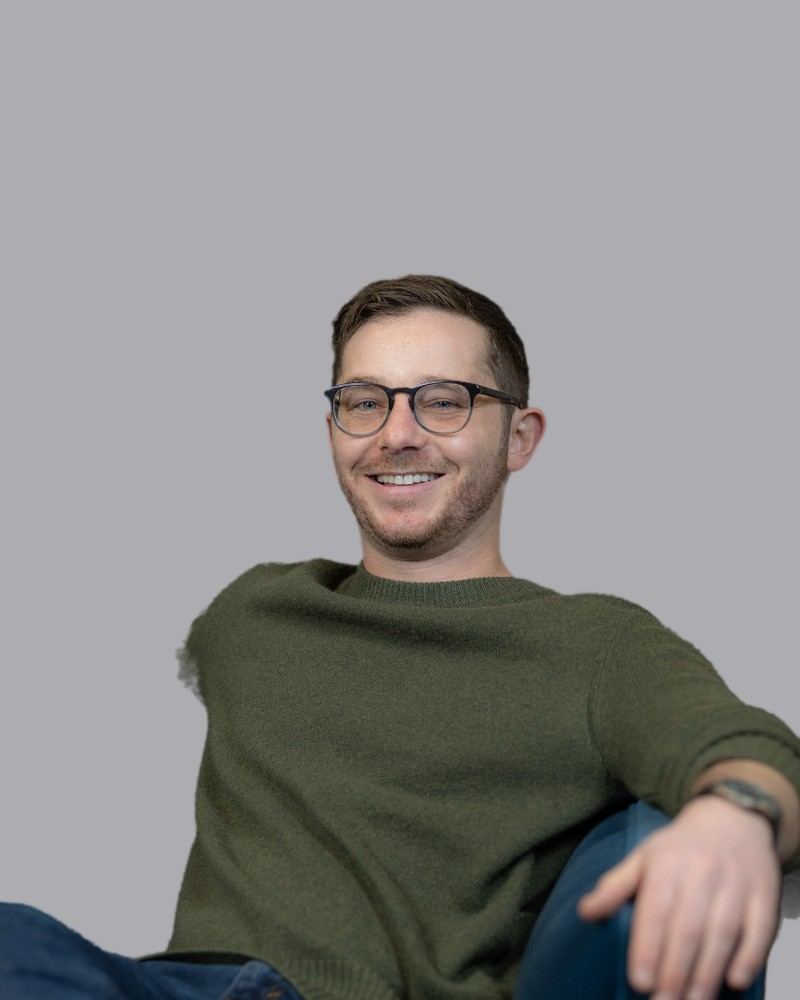
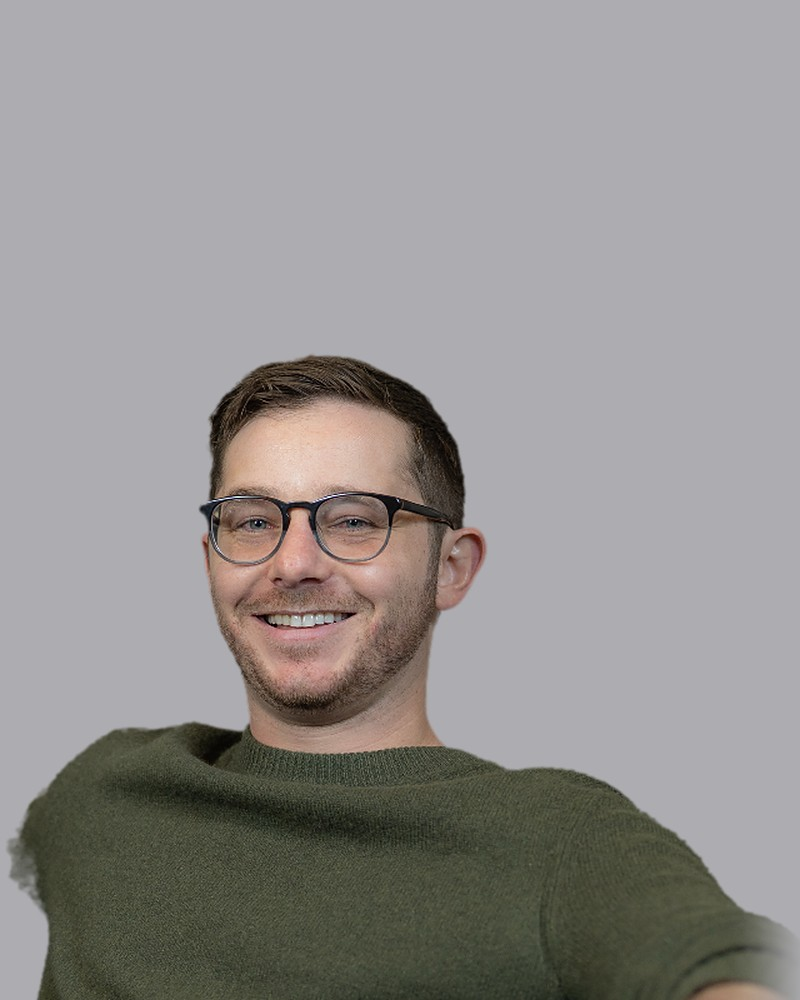
Turn the portrait into a headshot
Claude-Session: https://claude.ai/code/session_015agdMSuh6WT1MRachK4sGr

diff --git a/index.html b/index.html
@@ -92,7 +92,7 @@
       </form>
     </div>
     <picture class="cover-photo">
-      <source media="(max-width: 700px)" srcset="/img/ethan-cover-m.jpg" width="800" height="976">
+      <source media="(max-width: 700px)" srcset="/img/ethan-cover-m.jpg" width="800" height="659">
       <img src="/img/ethan-cover.jpg" srcset="/img/ethan-cover-1000.jpg 1000w, /img/ethan-cover.jpg 1600w" sizes="(min-width: 1240px) 900px, 100vw" width="1600" height="1253" alt="Portrait of Ethan Bidna" fetchpriority="high">
     </picture>
   </section>
